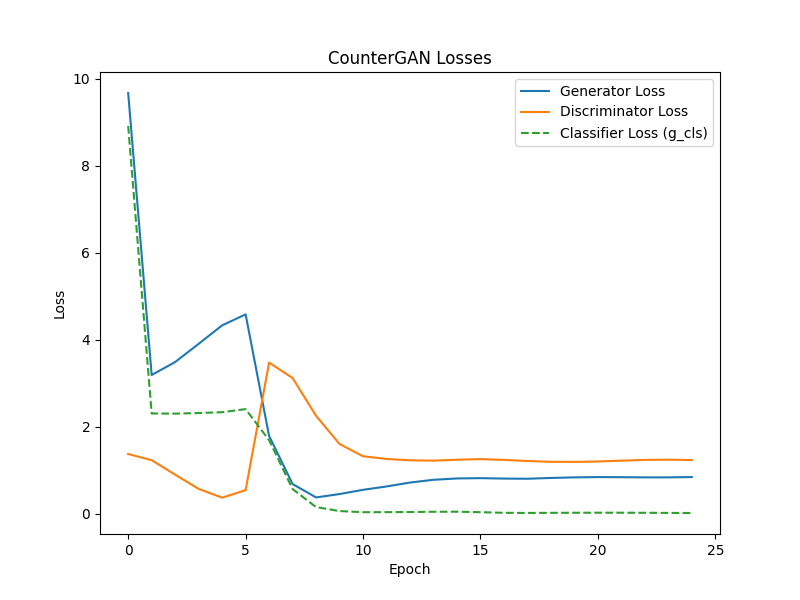
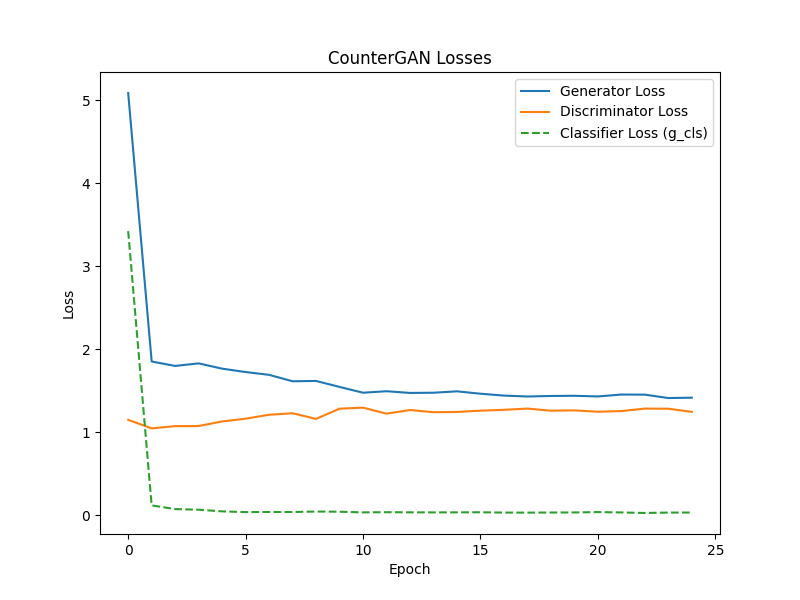
mnist best cf_grid and good enough loss curve

diff --git a/conditional_counteRGAN/mnist/models/generator.py b/conditional_counteRGAN/mnist/models/generator.py
@@ -1,31 +1,81 @@
 import torch
 import torch.nn as nn
-from config import Config
+
+
+class _ResBlock(nn.Module):
+    """Very small residual block with BN and LeakyReLU.
+    The residual path is scaled before adding to the identity to stabilize early training.
+    """
+    def __init__(self, channels, activation=nn.LeakyReLU(0.2, inplace=True)):
+        super().__init__()
+        self.conv1 = nn.Conv2d(channels, channels, kernel_size=3, padding=1)
+        self.bn1 = nn.BatchNorm2d(channels)
+        self.act = activation
+        self.conv2 = nn.Conv2d(channels, channels, kernel_size=3, padding=1)
+        self.bn2 = nn.BatchNorm2d(channels)
+
+    def forward(self, x):
+        #out=self.act(self.bn2(self.conv2(self.act(self.bn1(self.conv1(x))))))
+        out = self.act(self.bn1(self.conv1(x)))
+        out = self.bn2(self.conv2(out))
+        # scale the residual to keep updates conservative at first
+        return x + 0.1 * out
+
 
 class ResidualGenerator(nn.Module):
-    def __init__(self, img_shape=(1,28,28), num_classes=Config.num_classes):
+    """Residual generator for counterfactuals.
+    - Returns `residual` (do `x_cf = torch.clamp(x + residual, -1, 1)` in training/eval).
+    - Default is conservative: base_ch=32, n_resblocks=2, residual_scaling=0.1.
+    - No tanh on the output (keeps gradients stable). Clamping happens externally.
+    """
+
+    def __init__(self, img_shape=(1, 28, 28), num_classes=10, base_ch=64, n_resblocks=6,
+                 residual_scaling=0.1):
         super().__init__()
         C, H, W = img_shape
-        self.embed = nn.Embedding(num_classes, H*W)
-        self.g_hidden = 32
-        self.img_channel = 1
+        self.embed = nn.Embedding(num_classes, H * W)
 
-        self.main = nn.Sequential(
-            nn.Conv2d(C+1, self.g_hidden, 3, 1, 1),
-            nn.ReLU(inplace=True),
+        # entry
+        self.conv_in = nn.Conv2d(C + 1, base_ch, kernel_size=3, padding=1)
+        self.act = nn.LeakyReLU(0.2, inplace=True)
 
-            nn.Conv2d(self.g_hidden, self.g_hidden, 3, 1, 1),
-            nn.ReLU(inplace=True),
+        # small stack of residual blocks (cheap but effective)
+        blocks = []
+        for _ in range(n_resblocks):
+            blocks.append(_ResBlock(base_ch, activation=self.act))
+        self.resblocks = nn.Sequential(*blocks)
 
-            nn.Conv2d(self.g_hidden, self.g_hidden, 3, 1, 1),
-            nn.ReLU(inplace=True),
+        # a small bottleneck conv and the final output conv
+        self.conv_mid = nn.Conv2d(base_ch, base_ch, kernel_size=3, padding=1)
+        self.conv_out = nn.Conv2d(base_ch, 1, kernel_size=3, padding=1)
 
-            nn.Conv2d(self.g_hidden, 1, 3, 1, 1)
-        )
+        # global scaling (keeps outputs conservative; adjust during experiments)
+        self.residual_scaling = residual_scaling
+
+        self._init_weights()
+
+
+    def _init_weights(self):
+        # Kaiming init for convs, normal small init for embedding
+        for m in self.modules():
+            if isinstance(m, nn.Conv2d):
+                nn.init.kaiming_normal_(m.weight, a=0.2)
+                if m.bias is not None:
+                    nn.init.zeros_(m.bias)
+            elif isinstance(m, nn.BatchNorm2d):
+                nn.init.ones_(m.weight)
+                nn.init.zeros_(m.bias)
+            elif isinstance(m, nn.Embedding):
+                nn.init.normal_(m.weight, mean=0.0, std=0.01)
 
     def forward(self, x, target):
         B, C, H, W = x.shape
-        y_map = self.embed(target).view(B,1,H,W)
+        y_map = self.embed(target).view(B, 1, H, W).to(x.dtype).to(x.device)
         inp = torch.cat([x, y_map], dim=1)
-        residual = self.main(inp)
+
+        h = self.act(self.conv_in(inp))
+        h = self.resblocks(h)
+        h = self.act(self.conv_mid(h))
+
+        residual = self.conv_out(h) * self.residual_scaling
         return residual

diff --git a/conditional_counteRGAN/mnist/models/discriminator.py b/conditional_counteRGAN/mnist/models/discriminator.py
@@ -8,7 +8,7 @@ class Discriminator(nn.Module):
         C,H,W = img_shape
         self.cond_embed = nn.Embedding(num_classes, H*W)
         self.img_channel = 2
-        self.d_hidden = 16
+        self.d_hidden = 64
 
         self.main = nn.Sequential(
             nn.Conv2d(self.img_channel, self.d_hidden, 3, 2, 1, bias=False),
@@ -18,6 +18,9 @@ class Discriminator(nn.Module):
             nn.LeakyReLU(0.2, inplace=True),
 
             nn.Conv2d(self.d_hidden * 2, self.d_hidden * 4, 3, 2, 1, bias=False),
+            nn.LeakyReLU(0.2, inplace=True),
+
+            nn.Conv2d(self.d_hidden * 4, self.d_hidden * 4, 3, 2, 1, bias=False),
             nn.LeakyReLU(0.2, inplace=True),
 
             nn.AdaptiveAvgPool2d(1)

diff --git a/conditional_counteRGAN/mnist/trainer.py b/conditional_counteRGAN/mnist/trainer.py
@@ -101,7 +101,7 @@ def train_countergan(generator, discriminator, classifier, train_loader, cfg, de
             if batch_idx % 100 == 0:
                 print(f"[Epoch {epoch+1}/{cfg.num_epochs_gan}] batch {batch_idx} :: "
                       f"D(real)={d_real_p:.3f}, D(fake)={d_fake_p:.3f}, g_adv={g_adv.item():.4f}, "
-                      f"g_cls={g_cls.item():.4f}, reg={reg_l1.item():.6f}")
+                      f"g_cls={g_cls.item():.4f}, reg={reg_l1.item():.6f}, residual_mean={residual.abs().mean().item():.4f}")
 
         g_losses.append(g_epoch / num_batches)
         d_losses.append(d_epoch / num_batches)

diff --git a/conditional_counteRGAN/mnist/config.py b/conditional_counteRGAN/mnist/config.py
@@ -8,10 +8,10 @@ class Config:
     num_epochs_clf = 10
     cls_lr = 1e-3
     d_lr = 1e-5
-    g_lr = 2e-5
+    g_lr = 5e-5
     lambda_adv = 1.0
     lambda_cls = 1.0
-    lambda_reg = 0.03
+    lambda_reg = 2.5
 
     latent_dim = 100
     img_shape = (1, 28, 28)
